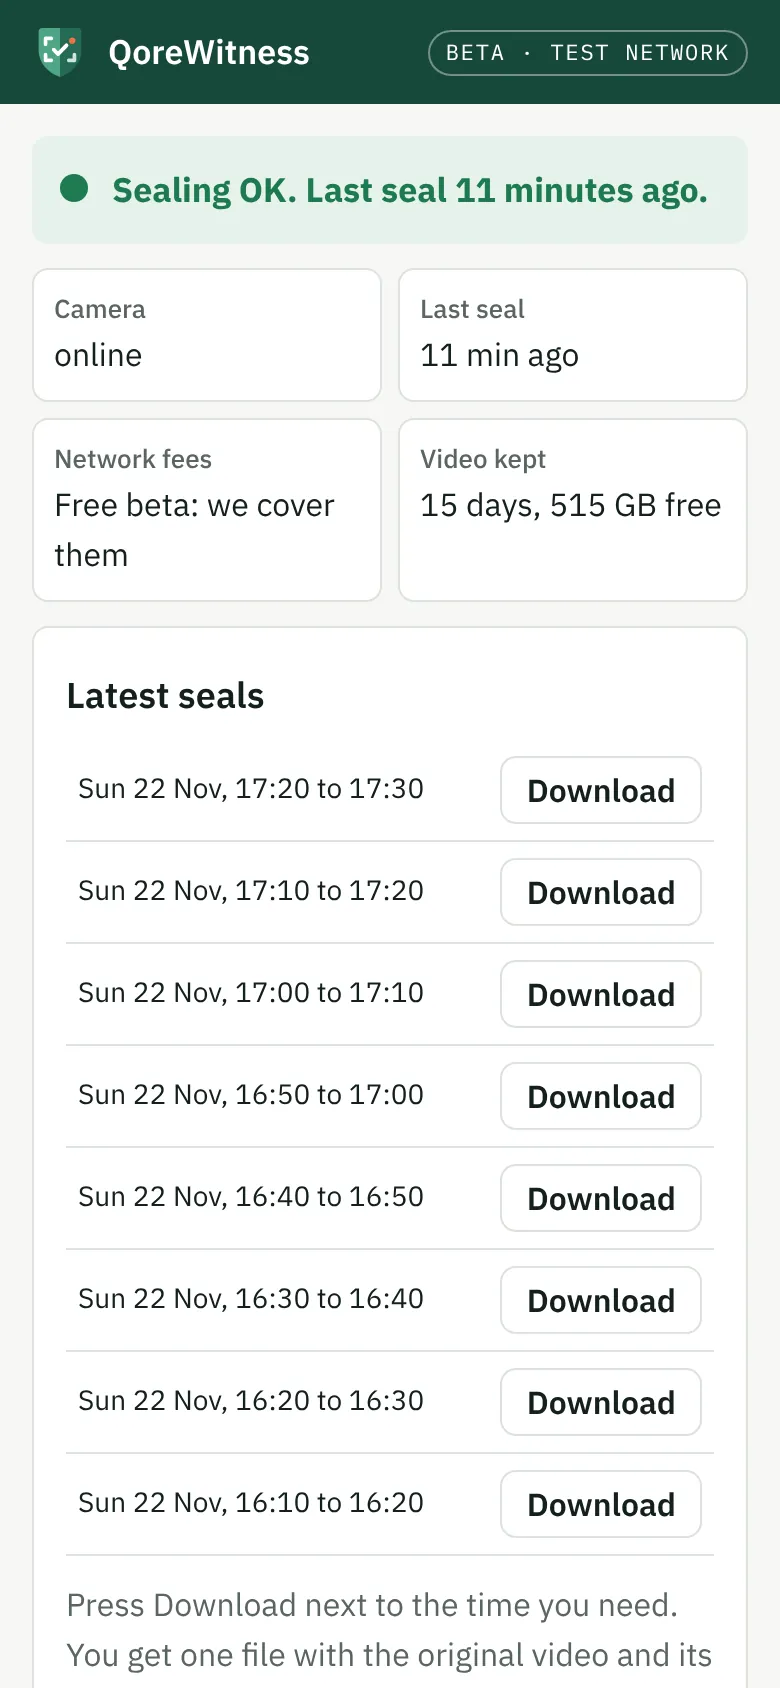
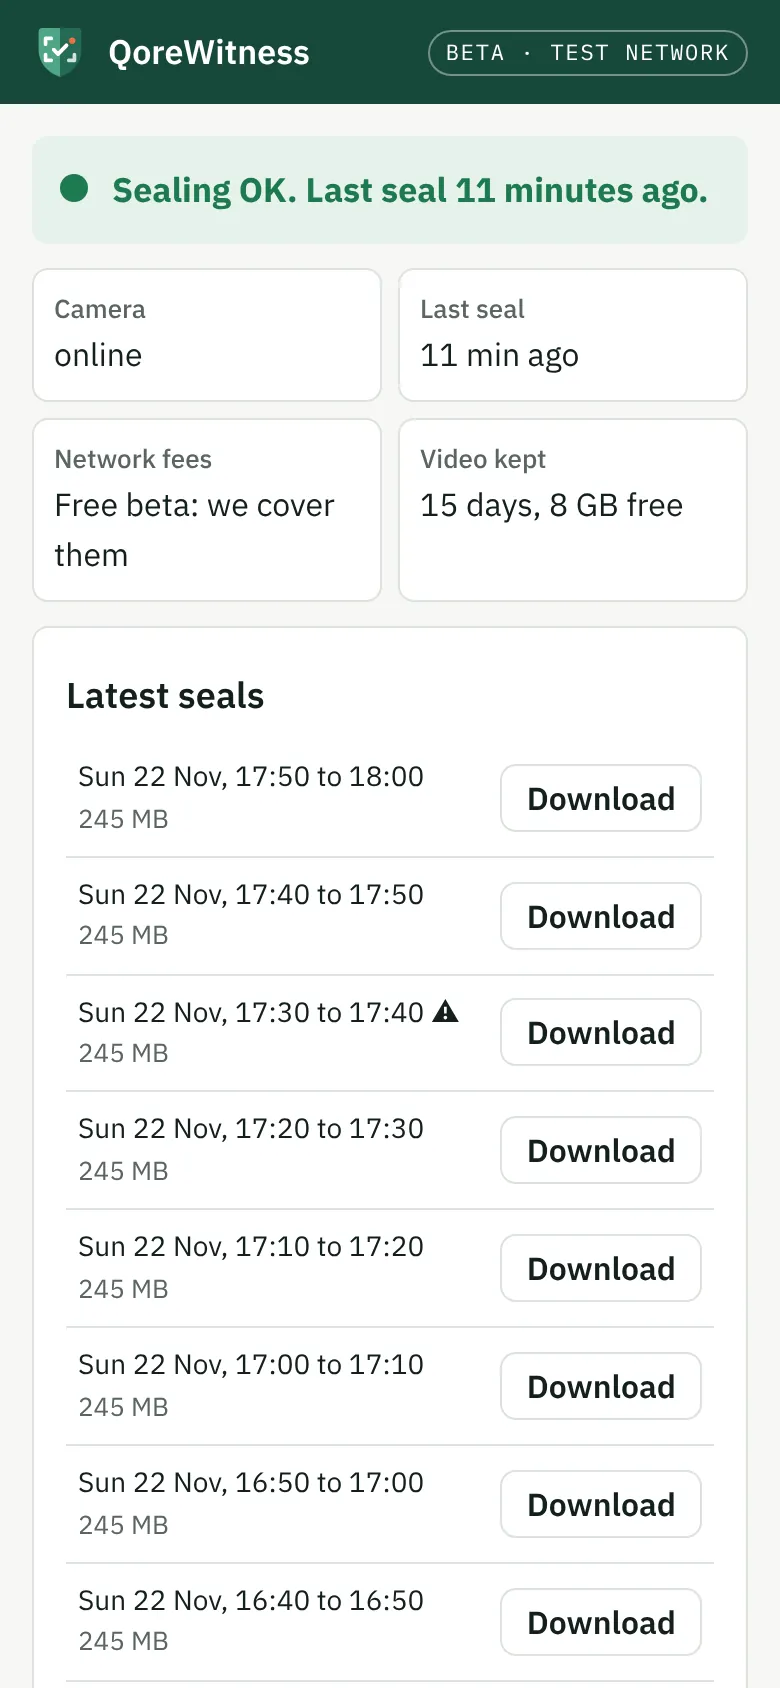
docs(site): new QoreWitness Verify SHA-256, re-taken app screenshots
VERIFIER_SHA and web/site/index.html carry the hash of the rebuilt
verifier. Preview regenerated. Screens re-taken with
team/app-shots/capture.mts: setup progress, done, dashboard (phone and
desktop) and evidence.

Claude-Session: https://claude.ai/code/session_01FGpaYvCSaQMsC3k9k6PQX8

Changed region(s): [[0.0923, 0.4313, 0.9231, 1.0], [0.6154, 0.4621, 0.9231, 0.8626], [0.7077, 0.2773, 0.9231, 0.3081]]

diff --git a/web/site/preview/jury.html b/web/site/preview/jury.html
@@ -64,7 +64,7 @@
 <section class="alt edged-chain" id="try"><div class="wrap narrow">
 <p class="eyebrow">Try it yourself</p><h2>Four checks you can run in a few minutes.</h2>
 <ol class="steps compact" style="margin-top:24px">
-<li class="step"><h3>Check the sample record</h3><div class="body"><p>Download the <a href="../demo-clip.mp4" download>sample clip</a> and its <a href="../demo-receipt.json" download>receipt</a>, open <a href="../verifier.html">QoreWitness Verify</a> and choose both files under <b>Or check one clip with its receipt</b>. The result is a green <b>Original</b>, read from the chain in your own browser.</p><p class="small">QoreWitness Verify is one offline HTML file. Its SHA-256 is <code class="break">d894ee8cad7d6b68b5a6fc41ec93693a2f6111c2971108ed72571f2a33fa2100</code>. Rebuild it with <code>pnpm build:verifier</code> and compare.</p></div></li>
+<li class="step"><h3>Check the sample record</h3><div class="body"><p>Download the <a href="../demo-clip.mp4" download>sample clip</a> and its <a href="../demo-receipt.json" download>receipt</a>, open <a href="../verifier.html">QoreWitness Verify</a> and choose both files under <b>Or check one clip with its receipt</b>. The result is a green <b>Original</b>, read from the chain in your own browser.</p><p class="small">QoreWitness Verify is one offline HTML file. Its SHA-256 is <code class="break">a486e33e19c66d22ea587064ae9ca25c1bdecce98729531fa19791e592c9723c</code>. Rebuild it with <code>pnpm build:verifier</code> and compare.</p></div></li>
 <li class="step"><h3>Break it on purpose</h3><div class="body"><p>Press <b>Change one byte and check again</b>. The verifier flips one bit of the clip in memory and the result turns red.</p></div></li>
 <li class="step"><h3>Find the anchor on chain</h3><div class="body"><p>Open the registry on the <a href="https://explore.qore.network/address/0xa1378D6558B32e1f8d37b68cf90e3C93839Da365">testnet explorer</a> and look up the sample record in block 10,120,133.</p></div></li>
 <li class="step"><h3>Run the tests</h3><div class="body"><p>Clone the repository and run <code>pnpm install --ignore-scripts</code> and <code>pnpm test</code>. The contract tests run against a mock of the precompiles, and the app tests use a mocked chain.</p></div></li>

diff --git a/web/site/preview/developers.html b/web/site/preview/developers.html
@@ -103,7 +103,7 @@ verifier (static page or CLI): clip + receipt
 </tbody></table></div>
 <dl class="kv" style="margin-top:20px">
 <dt>Sample record</dt><dd>Block 10,120,133, camera <code>demo-testpattern</code>, a generated test pattern with both fingerprints (receipt v3). Files: <a href="../demo-clip.mp4">clip</a> and <a href="../demo-receipt.json">receipt</a>.</dd>
-<dt>QoreWitness Verify SHA-256</dt><dd><code>d894ee8cad7d6b68b5a6fc41ec93693a2f6111c2971108ed72571f2a33fa2100</code><br><span class="small muted">Build it with <code>pnpm build:verifier</code> and compare.</span></dd>
+<dt>QoreWitness Verify SHA-256</dt><dd><code>a486e33e19c66d22ea587064ae9ca25c1bdecce98729531fa19791e592c9723c</code><br><span class="small muted">Build it with <code>pnpm build:verifier</code> and compare.</span></dd>
 <dt>Check a receipt in a terminal</dt><dd><code>pnpm tsx scripts/verify-receipt.ts demo-receipt.json demo-clip.mp4</code></dd>
 <dt>Without our code</dt><dd><code>python3 tools/verify_receipt.py &lt;receipt&gt; &lt;file&gt;</code> (standard library only)</dd>
 <dt>Run the tests</dt><dd><code>pnpm test</code> (233 automated tests on 22 Nov 2026)</dd>

diff --git a/web/site/index.html b/web/site/index.html
@@ -336,7 +336,7 @@ footer .brand{color:#fff}
           <dt>Registry</dt><dd><code>0xa1378D6558B32e1f8d37b68cf90e3C93839Da365</code></dd>
           <dt>Demo record</dt><dd>Block 10,120,133, camera <code>demo-testpattern</code></dd>
           <dt>Demo clip</dt><dd>A generated test pattern, anchored 15 Nov 2026 with both fingerprints</dd>
-          <dt>Verifier SHA-256</dt><dd><code>d894ee8cad7d6b68b5a6fc41ec93693a2f6111c2971108ed72571f2a33fa2100</code><br><span class="small muted">Build it from source with <code>pnpm build:verifier</code> and compare.</span></dd>
+          <dt>Verifier SHA-256</dt><dd><code>a486e33e19c66d22ea587064ae9ca25c1bdecce98729531fa19791e592c9723c</code><br><span class="small muted">Build it from source with <code>pnpm build:verifier</code> and compare.</span></dd>
         </dl>
       </div>
     </div>
